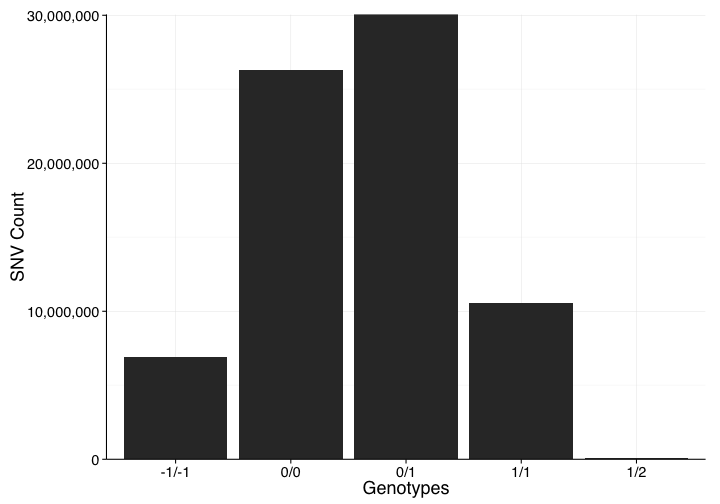
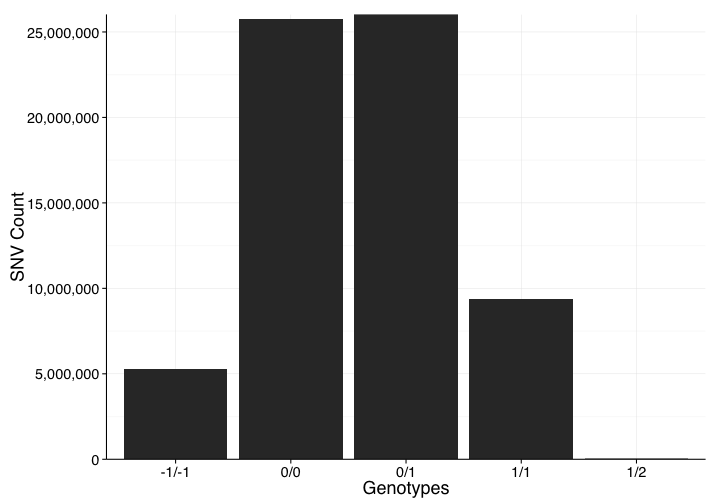
Updates to exclude qc fail variants

diff --git a/misc/Biological-Plots.md b/misc/Biological-Plots.md
@@ -49,9 +49,13 @@ FROM
     start,
     reference_bases,
     GROUP_CONCAT(alternate_bases) WITHIN RECORD AS alternates,
-    GROUP_CONCAT(STRING(call.genotype), "/") WITHIN call AS genotype
+    GROUP_CONCAT(STRING(call.genotype), "/") WITHIN call AS genotype,
+    GROUP_CONCAT(QC) WITHIN RECORD AS qc,
+    GROUP_CONCAT(call.QC) WITHIN CALL AS call_qc,
     FROM 
     [va_aaa_pilot_data.multi_sample_variants_full_qc]
+    OMIT call IF SOME(call.qc IS NOT NULL)
+    HAVING QC IS NULL
   )
   GROUP EACH BY
   reference_name,
@@ -110,10 +114,14 @@ FROM
     start,
     reference_bases,
     GROUP_CONCAT(alternate_bases) WITHIN RECORD AS alternates,
+    GROUP_CONCAT(QC) WITHIN RECORD AS qc,
+    GROUP_CONCAT(call.QC) WITHIN CALL AS call_qc,
     IF(LENGTH(reference_bases)=1 AND LENGTH(alternate_bases)=1, "SNV", "INDEL") AS VAR_type
     FROM 
     [va_aaa_pilot_data.multi_sample_variants_full_qc]
-    OMIT call IF EVERY(call.genotype <= 0)
+    OMIT call IF EVERY(call.genotype <= 0) 
+      OR SOME(call.qc IS NOT NULL)
+    HAVING QC IS NULL
   )
   GROUP EACH BY
   reference_name,
@@ -128,6 +136,24 @@ VAR_type
 ORDER BY
 reference_name,
 VAR_type
+
+Running query:   RUNNING  2.4s
+Running query:   RUNNING  3.0s
+Running query:   RUNNING  3.6s
+Running query:   RUNNING  4.2s
+Running query:   RUNNING  4.8s
+Running query:   RUNNING  5.4s
+Running query:   RUNNING  6.1s
+Running query:   RUNNING  6.7s
+Running query:   RUNNING  7.3s
+Running query:   RUNNING  7.9s
+Running query:   RUNNING  8.5s
+Running query:   RUNNING  9.1s
+Running query:   RUNNING  9.7s
+Running query:   RUNNING 10.4s
+Running query:   RUNNING 11.0s
+Running query:   RUNNING 11.6s
+Running query:   RUNNING 12.2s
 ```
 
 ```r
